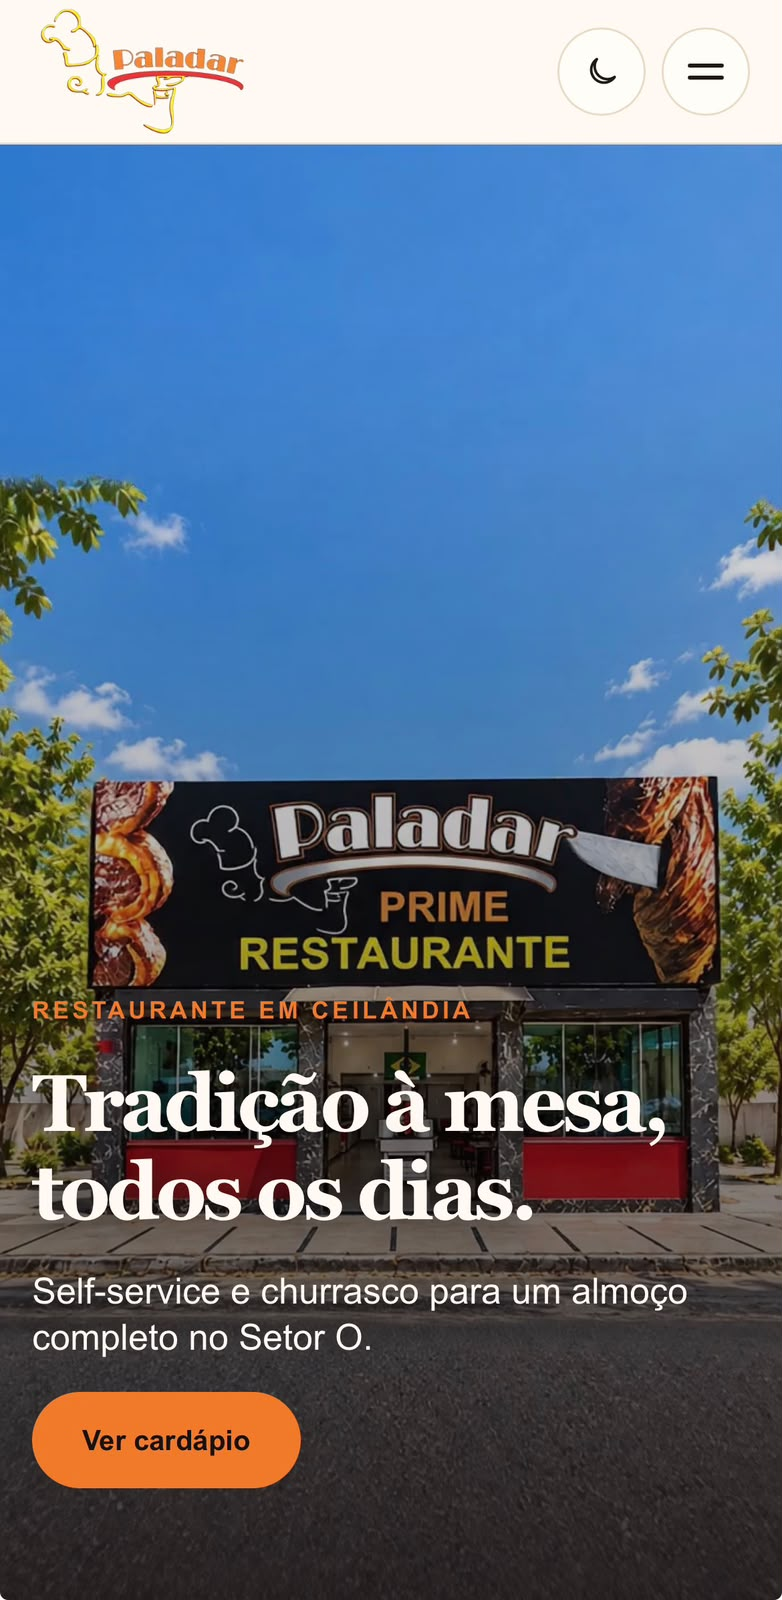
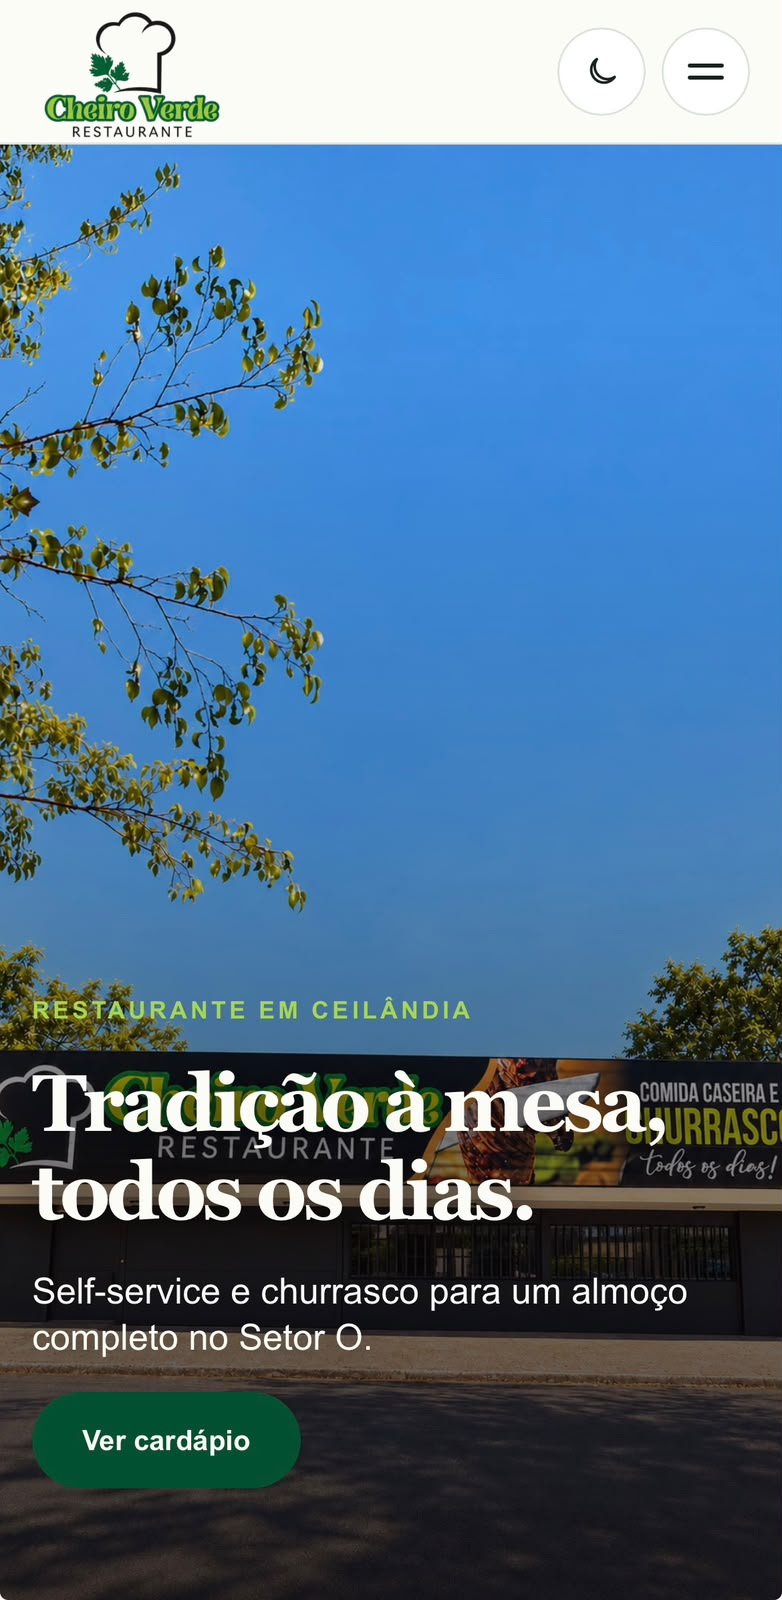
docs: add final Cheiro Verde screenshots

diff --git a/README.md b/README.md
@@ -8,9 +8,15 @@ A aplicação utiliza conteúdo local e páginas pré-renderizadas com o App Rou
 
 ## Demonstração
 
-As capturas desktop e mobile da versão final serão adicionadas após a revisão visual do proprietário. As imagens atualmente preservadas em `docs/screenshots/` pertencem à base anterior e não representam a identidade atual do Cheiro Verde.
+Site oficial: [restaurantecheiroverdedf.com.br](https://restaurantecheiroverdedf.com.br)
 
-Domínio oficial: [restaurantecheiroverdedf.com.br](https://restaurantecheiroverdedf.com.br). A disponibilidade pública depende da propagação DNS e da atualização da hospedagem.
+### Desktop
+
+![Página inicial do Restaurante Cheiro Verde em desktop](docs/screenshots/home-desktop.png)
+
+### Mobile
+
+![Página inicial do Restaurante Cheiro Verde em dispositivo móvel](docs/screenshots/home-mobile.jpeg)
 
 ## Funcionalidades
 
